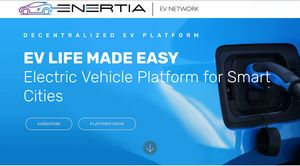
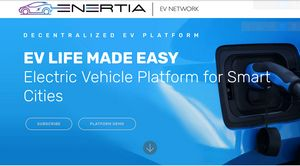
redeployed

Changed region(s): [[0.81, 0.1205, 0.93, 0.2108], [0.96, 0.1205, 1.0, 0.2108]]

diff --git a/index.html b/index.html
@@ -55,7 +55,7 @@
     </nav>
 </section>
 
-<section class="engine"><a href="https://mobirise.info/d">site maker</a></section><section class="header11 cid-rkHJr45l6P mbr-parallax-background" id="header11-g">
+<section class="engine"><a href="https://mobirise.info/e">how to make your own website</a></section><section class="header11 cid-rkHJr45l6P mbr-parallax-background" id="header11-g">
 
     <!-- Block parameters controls (Blue "Gear" panel) -->
     
@@ -97,7 +97,7 @@
         <div class="row py-2 justify-content-center">
             <div class="col-12 col-lg-6  col-md-8 " data-form-type="formoid">
                 <!---Formbuilder Form--->
[2 lines of base64/hex data omitted]
                     <div class="row">
                         <div hidden="hidden" data-form-alert="" class="alert alert-success col-12">Thanks for filling out the form! The Enertia team will get back to you as soon as possible.</div>
                         <div hidden="hidden" data-form-alert-danger="" class="alert alert-danger col-12">

diff --git a/page1.html b/page1.html
@@ -58,7 +58,7 @@
     </nav>
 </section>
 
-<section class="engine"><a href="https://mobirise.info/l">free web templates</a></section><section once="" class="cid-rkdeYDzGsV" id="footer6-e">
+<section class="engine"><a href="https://mobirise.info/x">free css templates</a></section><section once="" class="cid-rkdeYDzGsV" id="footer6-e">
 
     
 
